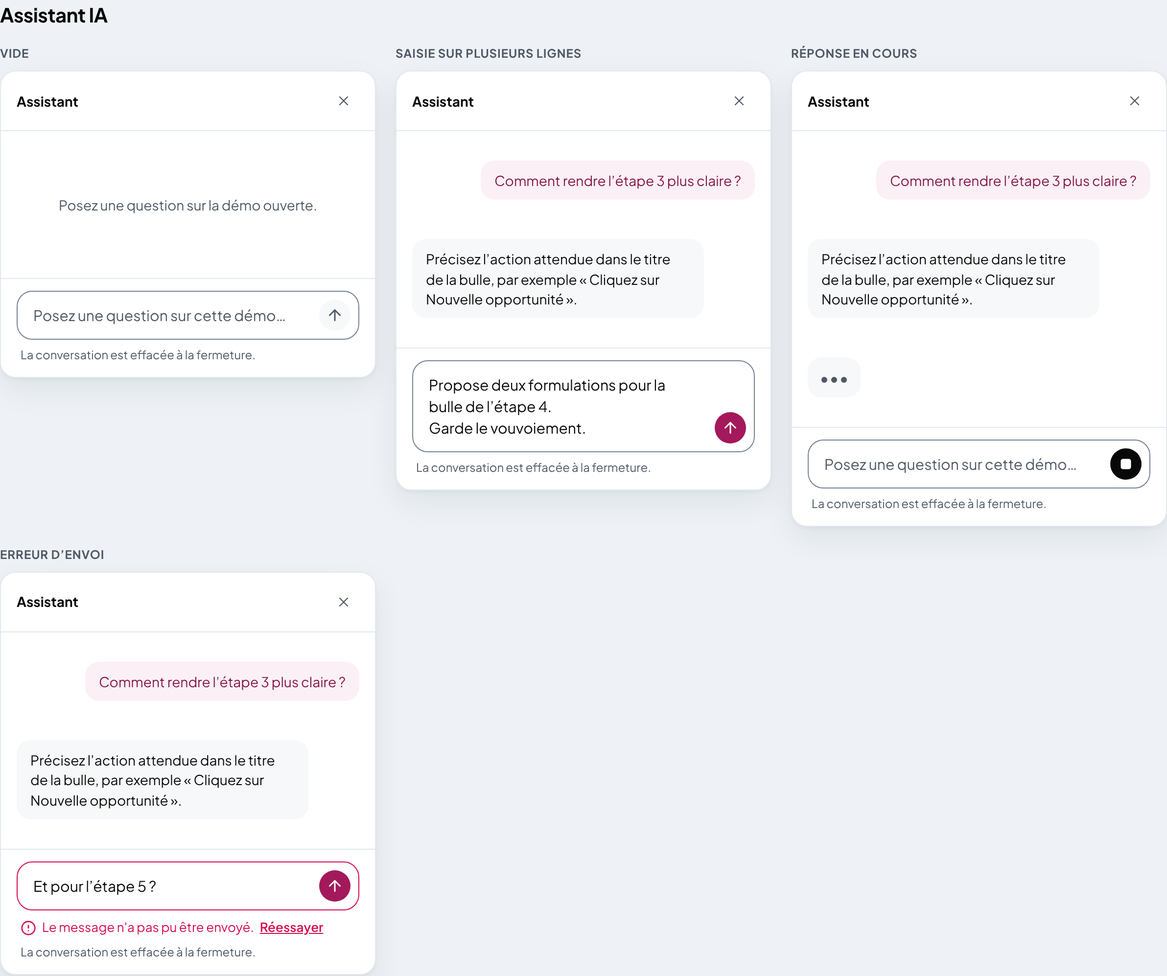
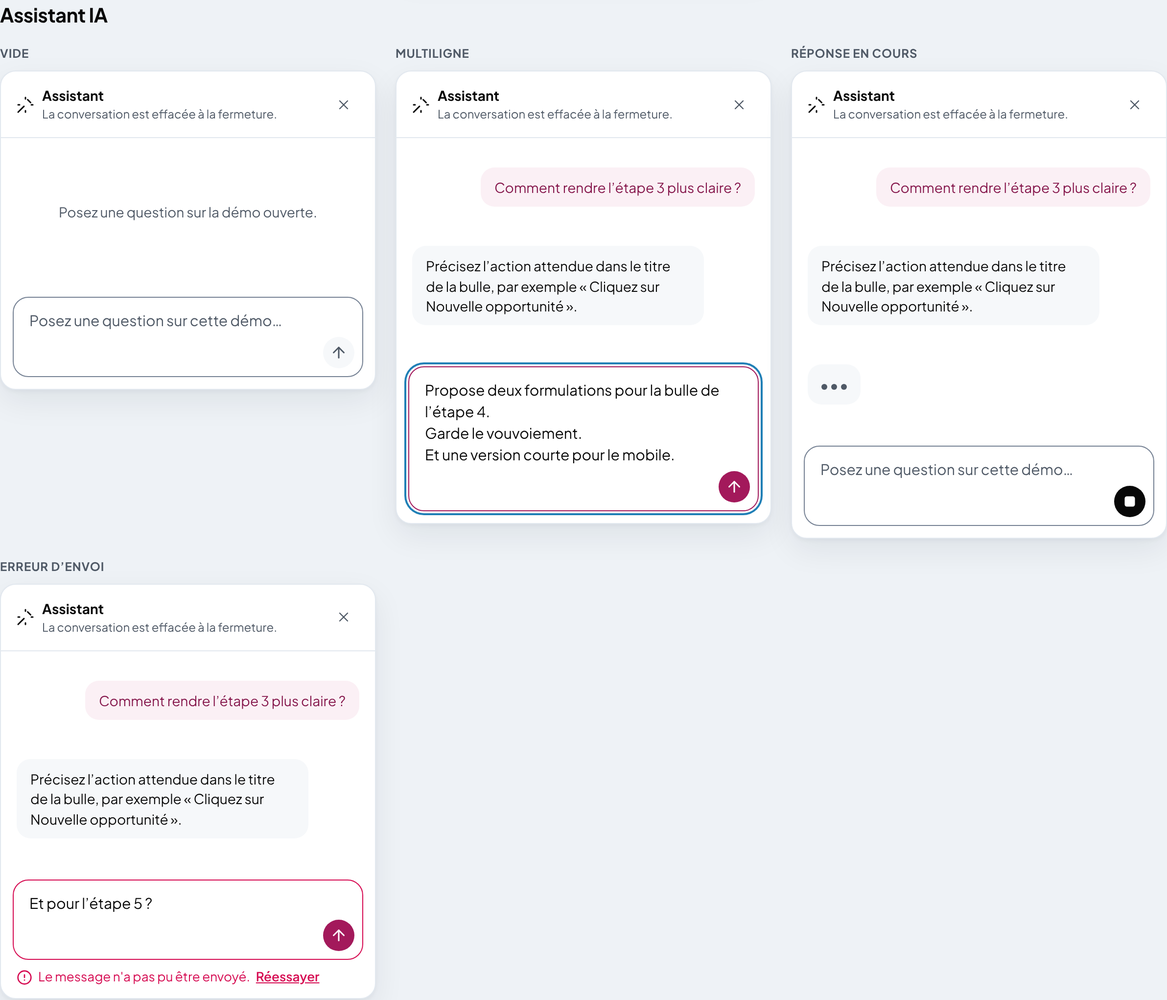
L43 révision 2 : composeur en un seul cadre (texte, puis barre d'actions)
Plus d'avatar à côté du champ ni de ligne d'aide dessous ; Mentionner à
gauche dans la barre, compteur et envoi à droite ; liste des mentions
au-dessus du cadre. États vide, rempli, multiligne, mentions ouvertes,
modification, en clair et en sombre. L45 §4 marqué comme remplacé.

Claude-Session: https://claude.ai/code/session_016yn81XNDaqi4emq7ho6CNv

diff --git a/docs/ux/maquettes/refonte/l43-composeur.html b/docs/ux/maquettes/refonte/l43-composeur.html
@@ -8,7 +8,7 @@
 <link rel="stylesheet" href="refonte.css">
 <script src="refonte.js" defer></script>
 <style>
-  /* L43 : champ de message pleine largeur, bouton d'envoi en icône dans le champ (bas droite). Données fictives. Spec : docs/ux/specs/l43-composeur.md */
+  /* L43 révision 2 : un seul cadre (texte en haut, barre d'actions en bas). Données fictives. Spec : docs/ux/specs/l43-composeur.md */
   .sr-only { position: absolute; width: 1px; height: 1px; padding: 0; margin: -1px; overflow: hidden; clip: rect(0 0 0 0); white-space: nowrap; border: 0; }
   body { background: var(--fd-color-bg); }
   .l43 { max-width: 1240px; margin: 0 auto; padding: 32px 24px 64px; display: flex; flex-direction: column; gap: 32px; color: var(--fd-color-text); font-family: var(--fd-font-sans); }
@@ -18,32 +18,47 @@
   .grid { display: grid; grid-template-columns: repeat(auto-fill, minmax(380px, 1fr)); gap: 20px; align-items: start; }
   .stage { padding: 24px; border-radius: 20px; background: var(--fd-color-bg); border: 1px solid var(--fd-color-border); }
 
-  /* ===== Composant proposé : fd-composer (packages/ui) ===== */
+  /* ===== Composant fd-composer (packages/ui), révision 2 : tout dans un seul cadre ===== */
   .fd-composer { position: relative; display: flex; flex-direction: column; border: 1px solid var(--fd-color-border-strong, var(--fd-color-border)); border-radius: 16px; background: var(--fd-color-surface); transition: border-color .15s; }
   .fd-composer:focus-within { border-color: var(--fd-color-primary); box-shadow: var(--fd-shadow-focus); }
-  .fd-composer textarea { all: unset; box-sizing: border-box; display: block; width: 100%; min-height: 48px; max-height: 168px; overflow-y: auto; padding: 13px 56px 13px 16px; font: 400 15px/22px var(--fd-font-sans); color: var(--fd-color-text); white-space: pre-wrap; word-wrap: break-word; }
+  .fd-composer textarea { all: unset; box-sizing: border-box; display: block; width: 100%; min-height: 34px; max-height: 192px; overflow-y: auto; padding: 12px 16px 0; font: 400 15px/22px var(--fd-font-sans); color: var(--fd-color-text); white-space: pre-wrap; word-wrap: break-word; }
   .fd-composer textarea::placeholder { color: var(--fd-color-text-muted); }
-  .fd-composer__send { position: absolute; right: 8px; bottom: 8px; width: 32px; height: 32px; border: 0; border-radius: 50%; display: grid; place-items: center; background: var(--fd-color-primary); color: var(--fd-color-on-primary, #fff); cursor: pointer; }
+  .fd-composer__bar { display: flex; align-items: center; gap: 2px; padding: 6px 8px 8px; }
+  .fd-composer__tool { all: unset; display: inline-grid; place-items: center; width: 32px; height: 32px; border-radius: 8px; color: var(--fd-color-text-muted); cursor: pointer; }
+  .fd-composer__tool:hover, .fd-composer__tool[aria-expanded='true'] { background: var(--fd-color-surface-sunken); color: var(--fd-color-text); }
+  .fd-composer__tool:focus-visible { box-shadow: var(--fd-shadow-focus); }
+  .fd-composer__tool svg { width: 18px; height: 18px; }
+  .fd-composer__end { margin-left: auto; display: flex; align-items: center; gap: 8px; }
+  .fd-composer__count { font-size: 12px; color: var(--fd-color-text-muted); font-variant-numeric: tabular-nums; }
+  .fd-composer__cancel { all: unset; font-size: 13px; font-weight: 600; padding: 0 8px; height: 32px; display: inline-flex; align-items: center; border-radius: 8px; color: var(--fd-color-text-muted); cursor: pointer; }
+  .fd-composer__send { width: 32px; height: 32px; border: 0; border-radius: 50%; display: grid; place-items: center; background: var(--fd-color-primary); color: var(--fd-color-on-primary, #fff); cursor: pointer; }
   .fd-composer__send svg { width: 18px; height: 18px; }
-  .fd-composer__send:disabled, .fd-composer__send[aria-disabled='true'] { background: var(--fd-color-surface-sunken); color: var(--fd-color-text-muted); cursor: not-allowed; }
+  .fd-composer__send:disabled { background: var(--fd-color-surface-sunken); color: var(--fd-color-text-muted); cursor: not-allowed; }
   .fd-composer__send.is-stop { background: var(--fd-color-text); color: var(--fd-color-surface); }
   .fd-composer__send:focus-visible { outline: none; box-shadow: var(--fd-shadow-focus); }
-  .fd-composer__note { margin: 8px 4px 0; font-size: 12px; line-height: 16px; color: var(--fd-color-text-muted); display: flex; gap: 8px; }
-  .fd-composer__note .end { margin-left: auto; }
-  .fd-composer__count { font-variant-numeric: tabular-nums; }
   .fd-composer.is-error { border-color: var(--fd-color-danger, #b4234b); }
   .err { margin: 8px 4px 0; font-size: 13px; color: var(--fd-color-danger, #b4234b); display: flex; align-items: center; gap: 6px; }
   .err button { all: unset; cursor: pointer; text-decoration: underline; font-weight: 600; }
+  /* Liste des mentions : au-dessus du cadre, alignée à gauche */
+  .mlist { position: absolute; left: 0; bottom: calc(100% + 6px); width: 280px; padding: 6px; border-radius: 12px; background: var(--fd-color-surface-raised, var(--fd-color-surface)); border: 1px solid var(--fd-color-border); box-shadow: var(--fd-shadow-lg); z-index: 2; }
+  .mlist__h { margin: 4px 8px 6px; font-size: 11px; font-weight: 700; letter-spacing: .05em; text-transform: uppercase; color: var(--fd-color-text-muted); }
+  .mopt { display: flex; align-items: center; gap: 10px; padding: 7px 8px; border-radius: 8px; font-size: 14px; }
+  .mopt.is-act { background: var(--fd-color-surface-sunken); }
+  .mopt small { margin-left: auto; color: var(--fd-color-text-muted); font-size: 12px; }
+  .tipb { position: absolute; right: -6px; bottom: calc(100% + 8px); padding: 6px 10px; border-radius: 8px; background: #12161B; color: #fff; font-size: 13px; white-space: nowrap; display: flex; gap: 6px; align-items: center; }
+  .tipb kbd { background: rgb(255 255 255 / .14); border: 0; color: #fff; }
+  [data-theme='dark'] .tipb { background: #2A3039; border: 1px solid #3A424D; }
 
   /* Habillage des contextes (panneau de l'assistant, panneau des commentaires) */
   .panel { width: 400px; max-width: 100%; color: var(--fd-color-text); background: var(--fd-color-surface); border: 1px solid var(--fd-color-border); border-radius: 16px; box-shadow: var(--fd-shadow-md); display: flex; flex-direction: column; }
   .panel__head { display: flex; align-items: center; gap: 8px; padding: 14px 16px; border-bottom: 1px solid var(--fd-color-border); font-weight: 700; }
   .panel__head .x { margin-left: auto; }
+  .panel__head small { display: block; font-weight: 400; font-size: 12px; color: var(--fd-color-text-muted); }
   .panel__body { padding: 16px; display: flex; flex-direction: column; gap: 12px; min-height: 150px; }
   .msgb { max-width: 85%; padding: 10px 14px; border-radius: 14px; font-size: 14px; line-height: 1.45; }
   .msgb.me { align-self: flex-end; background: var(--fd-color-primary-soft); color: var(--fd-color-primary-soft-text); }
   .msgb.ai { align-self: flex-start; background: var(--fd-color-surface-sunken); }
-  .panel__foot { padding: 12px 16px 14px; border-top: 1px solid var(--fd-color-border); }
+  .panel__foot { padding: 12px; }
   .cmt { display: flex; gap: 10px; font-size: 14px; } .ava { flex: none; display: grid; place-items: center; width: 28px; height: 28px; border-radius: 50%; background: var(--fd-color-primary-soft); color: var(--fd-color-primary-soft-text); font-size: 11px; font-weight: 700; }
   .cmt b { display: block; font-size: 13px; } .cmt small { color: var(--fd-color-text-muted); }
   .mention { color: var(--fd-color-primary); font-weight: 600; }
@@ -55,68 +70,80 @@
 <body>
 <main class="l43">
   <h1>L43 : composeur de message</h1>
-  <p>Le champ prend toute la largeur ; le bouton d'envoi est une icône dans le champ, en bas à droite. La mention propre au contexte est placée dessous. Entrée envoie, Maj + Entrée passe à la ligne. Le même composant sert à l'assistant IA, aux commentaires (nouveau commentaire, réponse, modification) et à tout futur champ de message. Données fictives.</p>
+  <p>Révision 2, modèle des messageries actuelles : tout tient dans un seul cadre arrondi. En haut, le texte, qui grandit avec le contenu ; en bas, dans le même cadre, une barre d'actions (outils discrets à gauche, envoi en icône à droite). Pas d'avatar à l'extérieur, pas de ligne d'aide sous le champ : l'aide est dans le placeholder et dans l'infobulle du bouton. Même composant pour l'assistant IA, les commentaires (nouveau, réponse, modification) et les futures zones de message. Données fictives.</p>
 
-  <section class="sec" aria-labelledby="s1"><h2 id="s1">Assistant IA</h2>
-    <div class="grid" data-slot="ai"></div>
-  </section>
   <section class="sec" aria-labelledby="s2"><h2 id="s2">Commentaires</h2>
     <div class="grid" data-slot="cm"></div>
+  </section>
+  <section class="sec" aria-labelledby="s1"><h2 id="s1">Assistant IA</h2>
+    <div class="grid" data-slot="ai"></div>
   </section>
   <section class="sec" aria-labelledby="s3"><h2 id="s3">En sombre</h2>
     <div class="stage" data-theme="dark"><div class="grid" data-slot="dark"></div></div>
   </section>
   <section class="sec" aria-labelledby="s4"><h2 id="s4">Règles</h2>
     <ul class="notes">
-      <li><kbd>Entrée</kbd> envoie ; <kbd>Maj</kbd> + <kbd>Entrée</kbd> passe à la ligne. Pendant une composition (accents, IME), Entrée ne déclenche jamais l'envoi.</li>
-      <li>Le champ grandit avec le texte, de 1 à 6 lignes, puis défile. Le texte ne passe jamais sous le bouton (marge droite réservée de 56 px).</li>
-      <li>Bouton d'envoi : icône <code>arrow-up</code> de 18 px dans un rond de 32 px, nom « Envoyer », infobulle « Envoyer · Entrée » (L44). Il est désactivé tant que le champ est vide ou ne contient que des espaces.</li>
-      <li>Assistant pendant une réponse : le bouton devient « Arrêter » (icône <code>square</code>) ; le champ reste modifiable pour préparer la question suivante.</li>
-      <li>Mention sous le champ : « La conversation est effacée à la fermeture. » pour l'assistant ; « Interne à l'équipe, jamais publié. » pour les commentaires. Le compteur n'apparaît qu'à partir de 80 % de la limite.</li>
+      <li>Cadre unique : bordure 1 px, arrondi 16 px. Au focus, l'anneau entoure tout le cadre, barre comprise.</li>
+      <li>Texte : 1 ligne au départ, grandit jusqu'à 8 lignes (192 px), puis défile. La barre d'actions reste toujours visible sous le texte.</li>
+      <li>Barre : à gauche, <code>@</code> « Mentionner » (commentaires seulement) ; à droite, le compteur (à partir de 80 % de la limite) et l'envoi. Infobulles L44 sur chaque icône. Pas de « joindre » tant que la pièce jointe n'existe pas dans ces zones.</li>
+      <li><kbd>Entrée</kbd> envoie ; <kbd>Maj</kbd> + <kbd>Entrée</kbd> passe à la ligne ; jamais d'envoi pendant une composition (accents, IME). Liste des mentions ouverte : Entrée choisit la personne.</li>
+      <li>Envoi désactivé tant que le champ est vide ou ne contient que des espaces. Assistant pendant une réponse : « Arrêter la réponse » (icône <code>square</code>).</li>
+      <li>Les mentions de contexte quittent le dessous du champ : « La conversation est effacée à la fermeture. » et « Interne à l'équipe, jamais publié. » passent sous le titre du panneau.</li>
     </ul>
   </section>
 </main>
 <script>
   const I = {
     up: '<path d="m5 12 7-7 7 7"/><path d="M12 19V5"/>',
+    check: '<path d="M20 6 9 17l-5-5"/>',
     stop: '<rect width="12" height="12" x="6" y="6" rx="2" fill="currentColor"/>',
     x: '<path d="M18 6 6 18"/><path d="m6 6 12 12"/>',
+    at: '<circle cx="12" cy="12" r="4"/><path d="M16 8v5a3 3 0 0 0 6 0v-1a10 10 0 1 0-4 8"/>',
     msg: '<path d="M21 15a2 2 0 0 1-2 2H7l-4 4V5a2 2 0 0 1 2-2h14a2 2 0 0 1 2 2z"/>',
+    spark: '<path d="M9.94 14.06 2 22"/><path d="m15 5 4 4"/><path d="M12 2v2M12 20v2M2 12h2M20 12h2"/>',
     alert: '<circle cx="12" cy="12" r="10"/><line x1="12" x2="12" y1="8" y2="12"/><line x1="12" x2="12.01" y1="16" y2="16"/>'
   };
-  const svg = (n) => `<svg viewBox="0 0 24 24" fill="none" stroke="currentColor" stroke-width="2" stroke-linecap="round" stroke-linejoin="round" aria-hidden="true" focusable="false">${I[n]}</svg>`;
+  const svg = (n, s) => `<svg${s ? ` width="${s}" height="${s}"` : ''} viewBox="0 0 24 24" fill="none" stroke="currentColor" stroke-width="2" stroke-linecap="round" stroke-linejoin="round" aria-hidden="true" focusable="false">${I[n]}</svg>`;
   let n = 0;
-  const composer = ({ value = '', placeholder, note, state = 'idle', count, label }) => {
+  const composer = ({ value = '', placeholder, state = 'idle', count, label, mention, mentionOpen, edit, tip, focus, rows }) => {
     const id = 'c' + (++n);
-    const btn = state === 'busy'
+    const send = state === 'busy'
       ? `<button type="button" class="fd-composer__send is-stop" aria-label="Arrêter la réponse">${svg('stop')}</button>`
-      : `<button type="submit" class="fd-composer__send" aria-label="Envoyer"${value.trim() && state !== 'disabled' ? '' : ' disabled'}>${svg('up')}</button>`;
-    return `<form class="fd-composer-wrap" onsubmit="return false"><div class="fd-composer${state === 'error' ? ' is-error' : ''}">
+      : `<button type="submit" class="fd-composer__send" aria-label="${edit ? 'Enregistrer' : 'Envoyer'}"${value.trim() ? '' : ' disabled'}>${svg(edit ? 'check' : 'up')}</button>`;
+    const ml = mentionOpen ? `<div class="mlist" role="listbox" aria-label="Mentionner"><p class="mlist__h">Mentionner</p>
+      <div class="mopt is-act" role="option" aria-selected="true"><span class="ava" aria-hidden="true">LF</span>Léa Fictive<small>Admin</small></div>
+      <div class="mopt" role="option" aria-selected="false"><span class="ava" aria-hidden="true">LM</span>Lucas Modèle<small>Éditeur</small></div></div>` : '';
+    return `<form onsubmit="return false" style="position:relative">${ml}<div class="fd-composer${state === 'error' ? ' is-error' : ''}"${focus ? ' style="border-color:var(--fd-color-primary);box-shadow:var(--fd-shadow-focus)"' : ''}>
       <label class="sr-only" for="${id}">${label}</label>
-      <textarea id="${id}" rows="${Math.max(1, Math.min(6, value.split('\n').length))}" placeholder="${placeholder}" aria-describedby="${id}-n"${state === 'disabled' ? ' disabled' : ''}>${value}</textarea>${btn}</div>
-      ${state === 'error' ? `<p class="err" role="alert">${svg('alert').replace('<svg', '<svg width="16" height="16"')}Le message n'a pas pu être envoyé. <button type="button">Réessayer</button></p>` : ''}
-      <p class="fd-composer__note" id="${id}-n"><span>${note}</span>${count ? `<span class="end fd-composer__count">${count}</span>` : ''}</p></form>`;
+      <textarea id="${id}" rows="${rows || 1}" placeholder="${placeholder}">${value}</textarea>
+      <div class="fd-composer__bar">${mention ? `<button type="button" class="fd-composer__tool" aria-label="Mentionner" aria-expanded="${!!mentionOpen}">${svg('at')}</button>` : ''}
+        <span class="fd-composer__end">${count ? `<span class="fd-composer__count">${count}</span>` : ''}${edit ? '<button type="button" class="fd-composer__cancel">Annuler</button>' : ''}<span style="position:relative">${tip ? `<span class="tipb" role="tooltip">${edit ? 'Enregistrer' : 'Envoyer'} <kbd>Entrée</kbd></span>` : ''}${send}</span></span></div></div>
+      ${state === 'error' ? `<p class="err" role="alert">${svg('alert', 16)}Le message n'a pas pu être envoyé. <button type="button">Réessayer</button></p>` : ''}</form>`;
   };
-  const ai = (title, body, c) => `<div><span class="lab">${title}</span><aside class="panel" aria-label="Assistant"><div class="panel__head">Assistant<button class="fd-btn fd-btn--ghost fd-btn--icon fd-btn--sm x" type="button" aria-label="Fermer">${svg('x')}</button></div><div class="panel__body">${body}</div><div class="panel__foot">${c}</div></aside></div>`;
-  const AIN = { placeholder: 'Posez une question sur cette démo…', note: 'La conversation est effacée à la fermeture.', label: 'Message à l’assistant' };
+  const ai = (title, body, c) => `<div><span class="lab">${title}</span><aside class="panel" aria-label="Assistant"><div class="panel__head">${svg('spark', 18)}<span>Assistant<small>La conversation est effacée à la fermeture.</small></span><button class="fd-btn fd-btn--ghost fd-btn--icon fd-btn--sm x" type="button" aria-label="Fermer">${svg('x')}</button></div><div class="panel__body">${body}</div><div class="panel__foot">${c}</div></aside></div>`;
+  const AIN = { placeholder: 'Posez une question sur cette démo…', label: 'Message à l’assistant' };
   const conv = '<p class="msgb me">Comment rendre l’étape 3 plus claire ?</p><p class="msgb ai">Précisez l’action attendue dans le titre de la bulle, par exemple « Cliquez sur Nouvelle opportunité ».</p>';
   const aiCases = () => [
     ai('Vide', '<p style="margin:auto;color:var(--fd-color-text-muted);font-size:14px;text-align:center">Posez une question sur la démo ouverte.</p>', composer({ ...AIN })),
-    ai('Saisie sur plusieurs lignes', conv, composer({ ...AIN, value: 'Propose deux formulations pour la bulle de l’étape 4.\nGarde le vouvoiement.' })),
-    ai('Réponse en cours', conv + '<p class="msgb ai"><span class="typing" aria-label="Réponse en cours"><i></i><i></i><i></i></span></p>', composer({ ...AIN, state: 'busy', value: '' })),
+    ai('Multiligne', conv, composer({ ...AIN, value: 'Propose deux formulations pour la bulle de l’étape 4.\nGarde le vouvoiement.\nEt une version courte pour le mobile.', rows: 3, focus: 1 })),
+    ai('Réponse en cours', conv + '<p class="msgb ai"><span class="typing" aria-label="Réponse en cours"><i></i><i></i><i></i></span></p>', composer({ ...AIN, state: 'busy' })),
     ai('Erreur d’envoi', conv, composer({ ...AIN, state: 'error', value: 'Et pour l’étape 5 ?' }))
   ];
-  const CMN = { placeholder: 'Écrire un commentaire… @ pour mentionner', note: 'Interne à l’équipe, jamais publié.', label: 'Nouveau commentaire' };
-  const cm = (title, c) => `<div><span class="lab">${title}</span><aside class="panel" aria-label="Commentaires"><div class="panel__head">${svg('msg').replace('<svg', '<svg width="18" height="18"')}Commentaires · 2</div><div class="panel__body"><div class="cmt"><span class="ava" aria-hidden="true">NT</span><p style="margin:0"><b>Noé Test <small>il y a 2 h</small></b>La capture de l’étape 2 date d’avant la mise à jour.</p></div><div class="cmt"><span class="ava" aria-hidden="true">LF</span><p style="margin:0"><b>Léa Fictive <small>il y a 1 h</small></b><span class="mention">@Noé Test</span> je la refais demain.</p></div></div><div class="panel__foot">${c}</div></aside></div>`;
+  const CMN = { placeholder: 'Écrire un commentaire, @ pour mentionner', label: 'Nouveau commentaire', mention: 1 };
+  const thread = '<div class="cmt"><span class="ava" aria-hidden="true">NT</span><p style="margin:0"><b>Noé Test <small>il y a 2 h</small></b>La capture de l’étape 2 date d’avant la mise à jour.</p></div><div class="cmt"><span class="ava" aria-hidden="true">LF</span><p style="margin:0"><b>Léa Fictive <small>il y a 1 h</small></b><span class="mention">@Noé Test</span> je la refais demain.</p></div>';
+  const cm = (title, c, body = thread) => `<div><span class="lab">${title}</span><aside class="panel" aria-label="Commentaires"><div class="panel__head">${svg('msg', 18)}<span>Commentaires · 2<small>Interne à l’équipe, jamais publié.</small></span></div><div class="panel__body">${body}</div><div class="panel__foot">${c}</div></aside></div>`;
   const cmCases = () => [
-    cm('Nouveau commentaire', composer({ ...CMN })),
-    cm('Saisie avec mention, près de la limite', composer({ ...CMN, value: '@Léa Fictive merci ! Pense aussi à flouter l’adresse en haut à droite de la capture.', count: '412 / 500' }))
+    cm('Vide', composer({ ...CMN })),
+    cm('Rempli (infobulle de l’envoi)', composer({ ...CMN, value: 'Merci, je vérifie l’étape 3 aussi.', focus: 1, tip: 1 })),
+    cm('Multiligne, près de la limite', composer({ ...CMN, value: '@Léa Fictive merci ! Pense aussi à flouter l’adresse en haut à droite de la capture.\nEt à vérifier le libellé du bouton, il a changé dans la dernière version.', rows: 4, count: '412 / 500', focus: 1 })),
+    cm('Liste des mentions ouverte', composer({ ...CMN, value: 'Bien vu @L', focus: 1, mentionOpen: 1 })),
+    cm('Modification d’un commentaire', composer({ ...CMN, label: 'Modifier le commentaire', value: 'La capture de l’étape 2 date d’avant la mise à jour du logiciel.', rows: 2, edit: 1, focus: 1 }))
   ];
-  document.querySelector('[data-slot="ai"]').innerHTML = aiCases().join('');
   document.querySelector('[data-slot="cm"]').innerHTML = cmCases().join('');
-  document.querySelector('[data-slot="dark"]').innerHTML = [aiCases()[1], cmCases()[1]].join('');
+  document.querySelector('[data-slot="ai"]').innerHTML = aiCases().join('');
+  document.querySelector('[data-slot="dark"]').innerHTML = [cmCases()[0], cmCases()[3], aiCases()[1]].join('');
   document.querySelectorAll('.fd-composer textarea').forEach((t) => {
-    const fit = () => { t.style.height = 'auto'; t.style.height = Math.min(t.scrollHeight, 168) + 'px'; const b = t.parentElement.querySelector('.fd-composer__send:not(.is-stop)'); if (b) b.disabled = !t.value.trim(); };
+    const fit = () => { t.style.height = 'auto'; t.style.height = Math.min(t.scrollHeight, 192) + 'px'; const b = t.closest('.fd-composer').querySelector('.fd-composer__send:not(.is-stop)'); if (b) b.disabled = !t.value.trim(); };
     t.addEventListener('input', fit); fit();
     t.addEventListener('keydown', (e) => { if (e.key === 'Enter' && !e.shiftKey && !e.isComposing) { e.preventDefault(); if (t.value.trim()) { t.value = ''; fit(); } } });
   });

diff --git a/docs/ux/specs/l43-composeur.md b/docs/ux/specs/l43-composeur.md
@@ -4,48 +4,60 @@
 > La règle vaut pour l'assistant IA et pour **tout champ de message similaire** : nouveau commentaire, réponse et modification d'un commentaire, puis tout futur champ de discussion.
 > Maquette : `docs/ux/maquettes/refonte/l43-composeur.html`. Captures : `img/l43-assistant.png`, `img/l43-commentaires.png` et `img/l43-sombre.png`.
 > Données fictives.
-
-## 1. Composant `Composer` (packages/ui)
+>## 1. Composant `Composer` (packages/ui)
 
 Un seul composant, pour remplacer les compositions actuelles :
 - `AssistantPanel.tsx` : `textarea` et `btn btn-primary`, placés côte à côte ;
-- `CommentsPanel.tsx` : `MentionInput` et `Button`.
+- `CommentsPanel.tsx` : avatar, `MentionInput` et `Button`.
 
-- **Structure** : un cadre (`fd-composer`) contient le `textarea` et le bouton d'envoi, posé en position absolue, en bas à droite. La mention et l'éventuel compteur viennent dessous (`fd-composer__note`).
-- **Cadre** : bordure 1 px `border-strong`, arrondi 16 px, fond `surface`. Au focus dans le champ : bordure `primary` et anneau `shadow-focus` sur le cadre entier.
-- **Champ** :
-  - pleine largeur, police 15/22 px, marges intérieures de 13 px en haut et en bas, 16 px à gauche, **56 px à droite** (réservés au bouton : le texte ne passe jamais dessous) ;
-  - hauteur automatique de 1 à 6 lignes (48 à 168 px), puis défilement interne.
+- **Cadre** (`fd-composer`) : bordure 1 px `border-strong`, arrondi 16 px, fond `surface`. Il contient, de haut en bas, la zone de texte et la barre d'actions. Au focus dans le champ : bordure `primary` et anneau `shadow-focus` sur le cadre entier, barre comprise.
+- **Zone de texte** :
+  - pleine largeur, police 15/22 px, marges intérieures de 12 px en haut, 16 px à gauche et à droite, 0 en bas (la barre suit) ;
+  - hauteur automatique de 1 à **8 lignes** (34 à 192 px), puis défilement interne. La barre reste toujours visible.
+- **Barre d'actions** (`fd-composer__bar`), 46 px, marges 6 px en haut, 8 px sur les côtés et en bas :
+  - **à gauche**, des boutons à icône discrets de 32 px (`text-muted`, fond `surface-sunken` au survol et quand leur liste est ouverte), chacun avec son infobulle L44 :
+    - `at-sign` « Mentionner » : dans les commentaires seulement. Il insère `@` au curseur et ouvre la liste des mentions ;
+    - « Joindre » (`plus`) : **pas dans cette version**. Ni les commentaires ni l'assistant n'acceptent de pièce jointe aujourd'hui. L'emplacement est prévu pour une future zone de message qui en accepterait ;
+  - **à droite** : le compteur éventuel, « Annuler » en modification, puis le bouton d'envoi.
 - **Bouton d'envoi** :
-  - rond de 32 px, à 8 px du bas et du bord droit ; icône Lucide `arrow-up` de 18 px ;
-  - fond `primary`, icône `on-primary` ;
-  - nom accessible « Envoyer », infobulle « Envoyer · Entrée » (L44) ;
+  - rond de 32 px ; icône Lucide `arrow-up` de 18 px ; fond `primary`, icône `on-primary` ;
+  - nom accessible « Envoyer », infobulle « Envoyer » avec la touche `Entrée` (L44) ;
   - désactivé (`disabled`, fond `surface-sunken`, icône `text-muted`) si le champ est vide ou ne contient que des espaces ;
   - zone cliquable portée à 40 × 40 px par un pseudo-élément, sans changer le dessin.
+- **Pas d'avatar** à côté du champ : l'auteur est l'utilisateur lui-même. Les avatars restent dans la liste des messages et dans la liste des mentions.
+- **Aide** : dans le placeholder (« Écrire un commentaire, @ pour mentionner ») et dans l'infobulle du bouton d'envoi (« Envoyer · Entrée »). Jamais de ligne d'aide sous le champ.
 - **Clavier** :
   - **Entrée** envoie ; **Maj + Entrée** passe à la ligne ;
   - pendant une composition (accents, IME : `isComposing`), Entrée n'envoie jamais ;
+  - liste des mentions ouverte : flèches pour choisir, Entrée ou Tab pour insérer, Échap pour fermer (sans vider le champ) ;
+  - Échap dans le champ de modification d'un commentaire annule la modification (inchangé).
+- **Liste des mentions** : popover de 280 px **au-dessus** du cadre, aligné à gauche, ouvert par `@` tapé ou par le bouton. Titre « Mentionner », une ligne par membre : avatar de 28 px, nom, rôle à droite. Filtrée par la saisie qui suit `@`. Positionnée par l'algorithme L44 (passe dessous si la place manque au-dessus).
+- **Après l'envoi** : le champ est vidé, garde le focus et revient à une ligne.
+
+jamais ;
   - dans les commentaires, quand la liste des mentions est ouverte, Entrée choisit la mention (comportement actuel de `MentionInput`) ;
   - Échap dans le champ de modification d'un commentaire annule la modification (inchangé).
 - **Après l'envoi** : le champ est vidé, garde le focus et revient à une ligne.
 
 ## 2. Contextes
 
-| Contexte | Placeholder | Mention dessous | Particularités |
+| Contexte | Placeholder | Barre (gauche) | Particularités |
 |---|---|---|---|
-| Assistant IA | « Posez une question sur cette démo… » | « La conversation est effacée à la fermeture. » | Pendant une réponse, le bouton devient « Arrêter la réponse » (icône `square` pleine, fond `text`, icône `surface`) et remplace « Arrêter » au-dessus du champ. Le champ reste modifiable pendant la réponse. 2 000 caractères au plus. |
-| Nouveau commentaire | « Écrire un commentaire… @ pour mentionner » (le placeholder court existant sous 480 px) | « Interne à l'équipe, jamais publié. » | L'avatar à gauche du champ est **conservé** (choix du client, révision L45 §4) : il est centré sur le cadre du champ quand celui-ci fait une ligne, et aligné en haut quand il en fait plusieurs. 500 caractères. |
-| Réponse à un commentaire | « Répondre… » | aucune | Même composant, plus compact (1 ligne au départ). |
-| Modification d'un commentaire | texte existant | « Entrée pour enregistrer, Échap pour annuler » (aujourd'hui, c'est Ctrl + Entrée : on aligne sur la règle Entrée) | Le bouton prend l'icône `check` et le nom « Enregistrer ». « Annuler » reste en lien sous le champ. |
+| Assistant IA | « Posez une question sur cette démo… » | aucun outil | Pendant une réponse, le bouton devient « Arrêter la réponse » (icône `square` pleine, fond `text`, icône `surface`) et remplace « Arrêter » au-dessus du champ. Le champ reste modifiable pendant la réponse. 2 000 caractères au plus. |
+| Nouveau commentaire | « Écrire un commentaire, @ pour mentionner » (« Commenter, @ pour mentionner » sous 480 px) | Mentionner | 500 caractères. Pas d'avatar. |
+| Réponse à un commentaire | « Répondre, @ pour mentionner » | Mentionner | Même composant. |
+| Modification d'un commentaire | texte existant | Mentionner | « Annuler » (bouton texte) à gauche de l'envoi, dans la barre ; le bouton prend l'icône `check` et le nom « Enregistrer » (infobulle « Enregistrer · Entrée »). Aujourd'hui c'est Ctrl + Entrée : on aligne sur la règle Entrée. |
 
-- **Compteur** : « 412 / 500 », à droite de la mention, affiché seulement à partir de 80 % de la limite. Au-delà de la limite, la saisie est bloquée (`maxLength`).
+- **Mentions de contexte** : « La conversation est effacée à la fermeture. » (assistant) et « Interne à l'équipe, jamais publié. » (commentaires) quittent le dessous du champ et passent **sous le titre du panneau**, en 12 px `text-muted`.
+- **Compteur** : « 412 / 500 », dans la barre, à gauche du bouton d'envoi, affiché seulement à partir de 80 % de la limite. Au-delà de la limite, la saisie est bloquée (`maxLength`).
 - **Erreur d'envoi** : le cadre passe en bordure `danger`, puis une ligne `role="alert"` apparaît sous le champ : « Le message n'a pas pu être envoyé. Réessayer ». Le texte saisi est conservé.
-- **Désactivé** (pas d'étape choisie pour les commentaires, Assistance IA coupée) : le champ est désactivé, avec la raison sur la ligne de mention.
+- **Désactivé** (pas d'étape choisie pour les commentaires, Assistance IA coupée) : le champ est désactivé et la raison remplace le placeholder (« Choisissez une étape pour commenter »).
 
 ## 3. Accessibilité
 
 - Le champ a un libellé (masqué visuellement) : « Message à l'assistant », « Nouveau commentaire », « Répondre à {{auteur}} », « Modifier le commentaire ».
-- `aria-describedby` relie le champ à la ligne de mention et au compteur.
+- `aria-describedby` relie le champ au compteur et à la mention de contexte du panneau.
+- Le bouton « Mentionner » a `aria-haspopup="listbox"` et `aria-expanded` ; la liste est un `listbox` relié au champ par `aria-controls` et `aria-activedescendant`.
 - Le bouton est un vrai `button type="submit"` dans un `form` : l'envoi au clavier passe par la soumission du formulaire.
 - Les messages reçus de l'assistant sont annoncés par la zone `aria-live` existante. Le changement Envoyer / Arrêter est annoncé par le nouveau nom du bouton.
 
@@ -53,7 +65,9 @@ Un seul composant, pour remplacer les compositions actuelles :
 
 - Assistant et commentaires, en clair, en sombre, à 1 440 px et dans le panneau mobile.
 - Entrée, Maj + Entrée, composition d'accents (texte « é » saisi avec une touche morte), mention avec Entrée.
-- Champ qui grandit jusqu'à 6 lignes, puis défile ; le texte ne passe jamais sous le bouton.
+- Champ qui grandit jusqu'à 8 lignes, puis défile ; la barre d'actions reste visible.
+- États de la maquette : vide, rempli, multiligne, liste des mentions ouverte, modification ; en clair et en sombre.
+- Aucun avatar à côté du champ ; aucune ligne d'aide sous le champ.
 - Bouton désactivé si le champ est vide ou ne contient que des espaces ; « Arrêter » pendant une réponse de l'assistant.
 - Erreur d'envoi simulée : le texte est conservé, et « Réessayer » fonctionne.
 - Mise à jour des e2e `assistant` et `comments` (sélecteurs du bouton).

diff --git a/docs/ux/specs/l45-espacements.md b/docs/ux/specs/l45-espacements.md
@@ -100,12 +100,7 @@ La largeur de la modale (1 120 px), l'aperçu à droite, les options « Contenu 
 
 ## 4. Composeur des commentaires : avatar
 
-**Révision de L43** : l'avatar est **conservé** à gauche du champ (choix du client), mais aligné correctement.
-
-- **Champ sur une ligne** : l'avatar (32 px) est centré verticalement sur le **cadre du champ** (48 px), pas sur le bloc champ + aide. Le conteneur aligne l'avatar et le cadre en `align-items: center` ; la ligne d'aide est hors de cette rangée.
-- **Champ sur plusieurs lignes** : l'avatar reste en haut, aligné sur la première ligne. Rangée en `align-items: flex-start`, avec une marge haute de 8 px sur l'avatar (centré sur la hauteur d'une ligne de 48 px).
-- **Mise en œuvre** : une seule règle CSS, `align-self` de l'avatar selon l'état « multiligne » (`textarea.scrollHeight > 48`), sans saut au passage d'une ligne à deux.
-- Le bouton d'envoi est dans le champ, en bas à droite (L43). La spec L43 est corrigée sur ce point : l'avatar est conservé.
+**Remplacé par L43 révision 2 (20 novembre)** : le client a choisi le modèle des messageries actuelles. L'avatar est **retiré** à côté du champ, et tout tient dans un seul cadre (texte, puis barre d'actions). Voir `l43-composeur.md` §1. Ce paragraphe ne s'applique plus.
 
 ## 5. Recette
 
@@ -114,4 +109,4 @@ La largeur de la modale (1 120 px), l'aperçu à droite, les options « Contenu 
   - aucune valeur hors du tableau du §1. Les mesures de l'audit sont dans le message de livraison.
 - **Captures avant/après** des écarts E1 à E20, à 1 440 px, en clair et en sombre.
 - **Modale Exporter** : 1 440 × 900 (sans défilement), 1 280 × 800 (la colonne gauche défile, le pied reste visible), 390 px.
-- **Composeur** : sur une ligne, l'avatar est centré sur le cadre à ±1 px ; sur trois lignes, il est en haut ; aucun saut visible au passage à deux lignes.
+- **Composeur** : voir la recette de L43 (révision 2).
